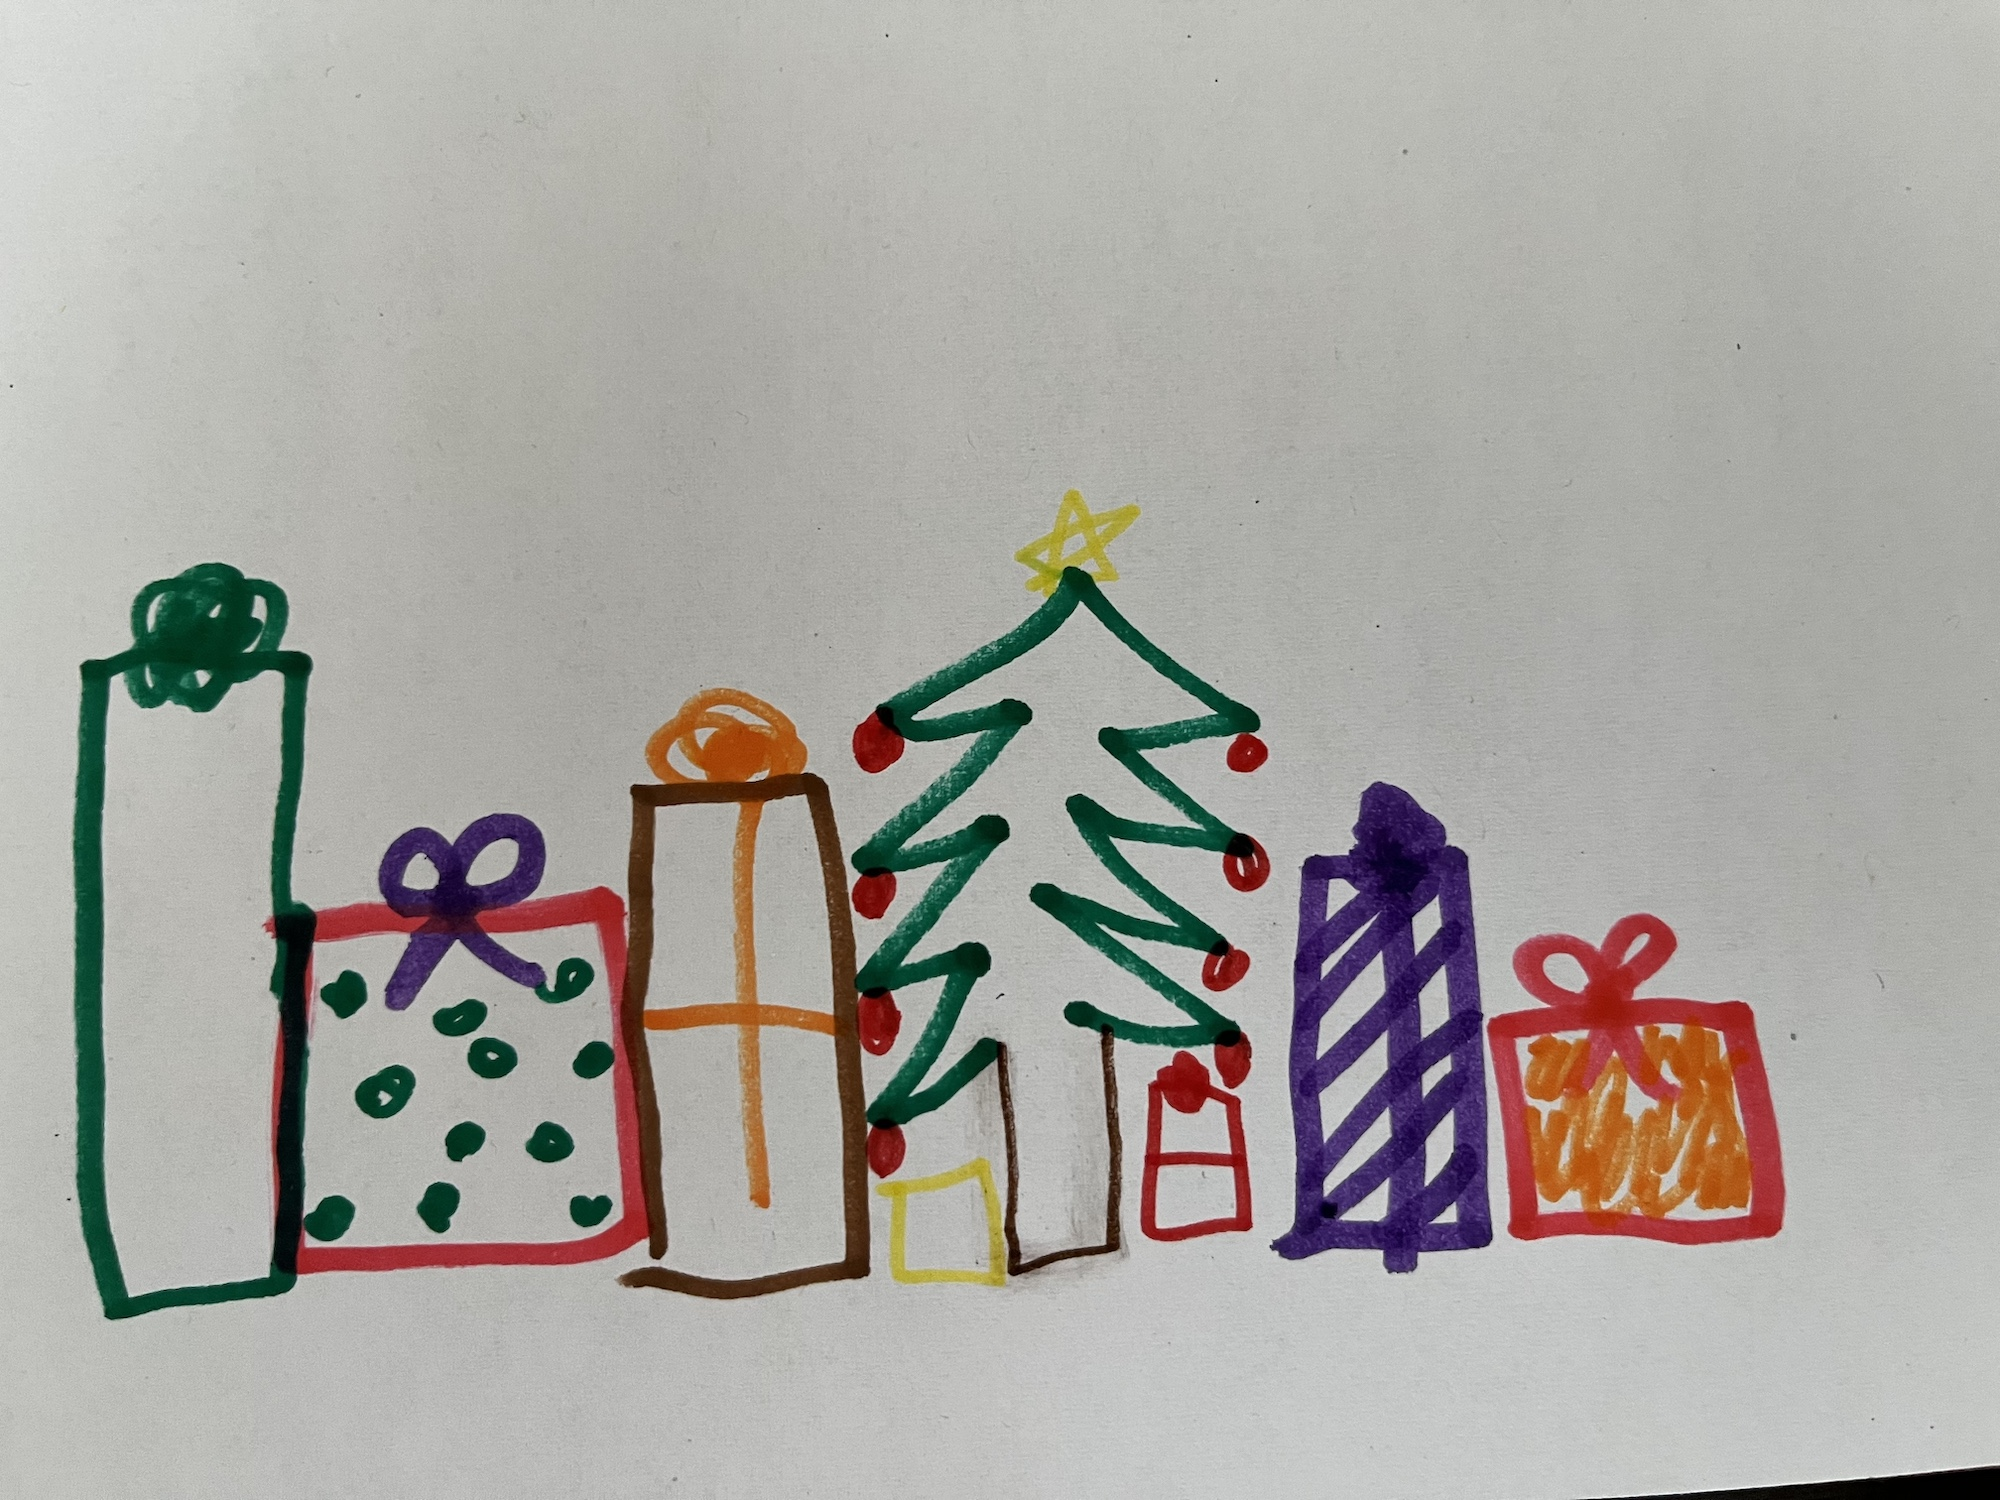
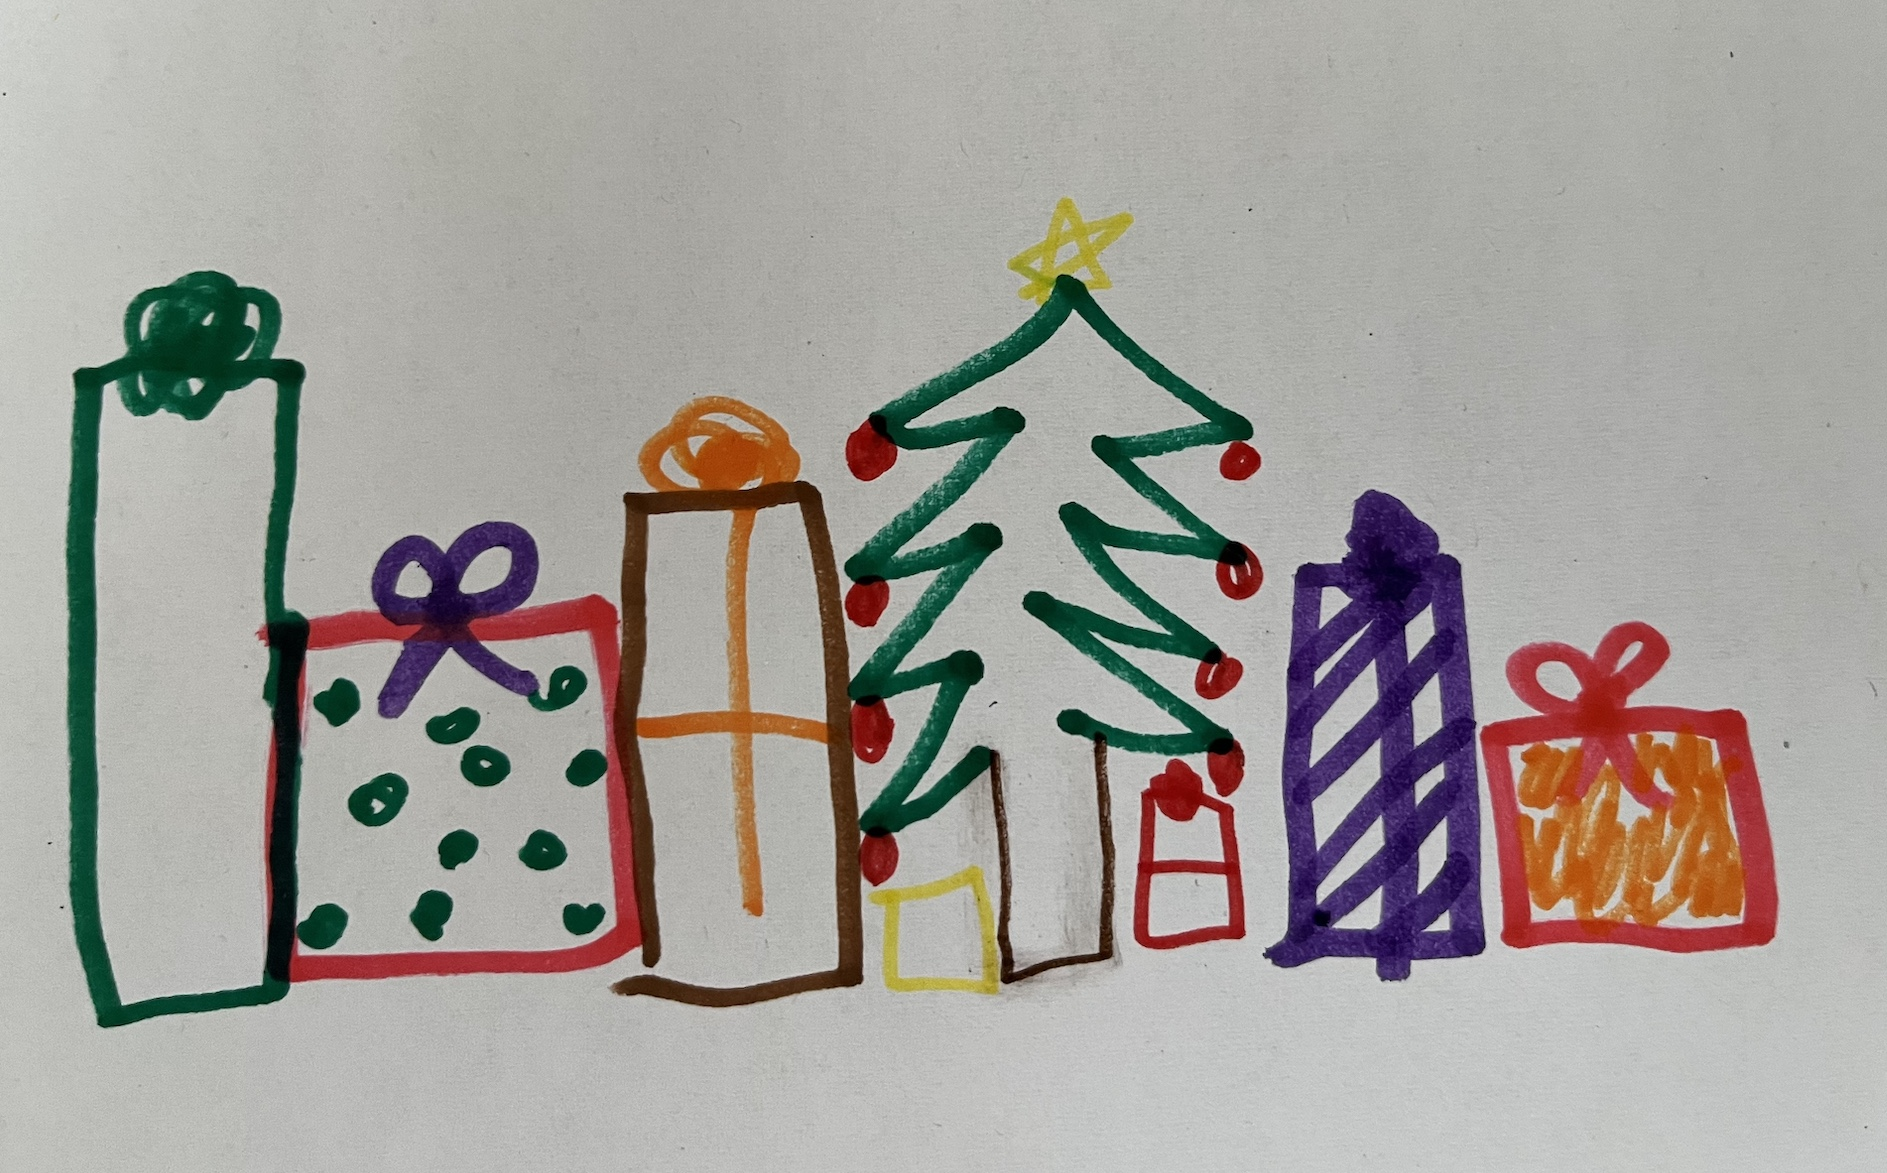
adjusting tree again

diff --git a/slides.md b/slides.md
@@ -89,7 +89,7 @@
 
 <!-- .slide: data-background-image="assets/headline.jpg"-->
 
----\
+---
 
 ## Developer failed!
 ### fear of failure
